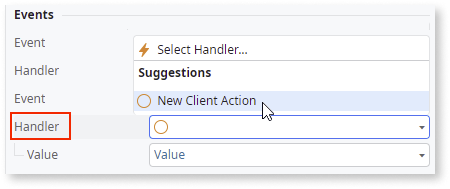
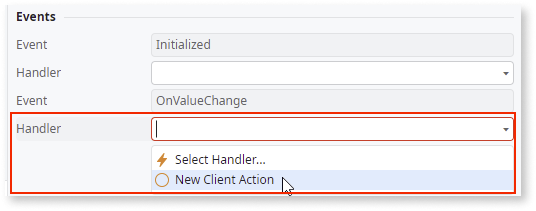
Updated Range Slider doc and Range Slider Ref doc

diff --git a/src/develop/ui/patterns/mobile/interaction/rangeslider.md b/src/develop/ui/patterns/mobile/interaction/rangeslider.md
@@ -23,7 +23,7 @@ In this example, we create a Range Slider that allows the user select the number
 
     The Range Slider widget is displayed.
 
-    ![](images/rangeslider-widget-ss.png)
+    ![Range Slider widget](images/rangeslider-widget-ss.png)
 
     If the UI widget does not display, it may be because you used a ready-made app, which deletes unused widgets from the module. To make additional widgets available in your app:
 
@@ -41,43 +41,39 @@ In this example, we create a Range Slider that allows the user select the number
 
     ![Drag the widget to the application screen](images/rangeslider-dragwidget-ss.png)
 
-1. On the **Properties** tab, enter the mandatory minimum, maximum, and starting values. In this example, we add static values.
+1. On the **Properties** tab, enter the mandatory minimum, maximum, and starting values. 
+    
+    In this example, we add static values.
 
-1. To create a new client action, from the **OnValueChange** drop-down, select **New Client Action**.
+    ![Add mandatory values](images/rangeslider-prop-vals-ss.png)
+
+1. To create an OnChange event, on the **Properties** tab, from the **Handler** drop-down, select **New Client Action**.
+
+    ![Create client action](images/rangeslider-clientaction-ss.png)
 
     By default, the **Value** input parameter is created.  
 
     ![Value input parameter is created automatically](images/rangeslider-value-input-ss.png)
 
-1. From the Toolbox, drag the Container widget into the Main Content area of your application's screen, and add your content to the Container placeholder. In this example we add some text and an expression.
+1. From the Toolbox, drag the **Container** widget into the Main Content area of your application's screen, and add your content to the Container placeholder.
 
-    ![](images/rangeslider-7-ss.png)
+    In this example we add some text and an expression.
 
-1. To create a variable for the expression, right-click your screen name, select **Add Local Variable**, and on the **Properties** tab, enter a name and data type (in this example, we use Decimal).
+    ![Add a container with content to the screen](images/rangeslider-container-ss.png)
 
-    ![](images/rangeslider-8-ss.png)
+1. To create a variable for the expression, right-click your screen name, select **Add Local Variable**, and on the **Properties** tab, enter a name and data type (in this example, we use **Decimal**).
+
+    ![Create a local cariable of type decimal](images/rangeslider-locvar-ss.png)
 
 1. To bind the new variable to the expression, double-click the expression widget, and in the **Expression Value** editor, select the variable you just have created, and click **Done**.
 
-    ![](images/rangeslider-9-ss.png)
+    ![](images/rangeslider-expression-ss.png)
 
-1. So that the **Value** parameter reads the range slider selection, double-click your client action, and from the Toolbox, add the **Assign** action to the client action.
+1. So that the **Value** parameter reads the range slider selection, double-click your client action, and from the Toolbox, add the **Assign** action to the client action. Set the Assign **Variable** to the local variable you created, and the Assign **Value** to the automatically generated input parameter (Value).
 
-    ![](images/rangeslider-10-ss.png)
-
-1. Set the Assign **Variable** to the local variable you created, and the Assign **Value** to the automatically generated input parameter (Value).
-
-    ![](images/rangeslider-11-ss.png)
-
-1. From the **Properties** tab, you can change the Range Slider's look and feel by setting the (optional) properties.
-
-    ![](images/rangeslider-14-ss.png)
+    ![](images/rangeslider-assign-ss.png)
 
 After following these steps and publishing the module, you can test the pattern in your app.
-
-**Result**
-
-![](images/rangeslider-12-ss.png)
 
 ## Properties
 
@@ -86,11 +82,12 @@ After following these steps and publishing the module, you can test the pattern 
 |MinValue (Decimal): Mandatory | Slider's minimum value. |
 |MaxValue (Decimal): Mandatory | Slider's maximum value. |
 |StartingValue (Decimal): Mandatory | Value selected by default when the page is rendered. Must be between min and max values. |
-|Size (Text): Optional | Sets the Range Slider size. If horizontal, the size is the width. Otherwise (vertical), the size is the height.  Accepts any kind of unit (px, %, vw). Default value is 100%.|
+|Orientation (Orientation Identifier): Optional|Sets the Range Slider direction. Default value is horizontal.|
+Size (Text): Optional | Sets the Range Slider size. If horizontal, the size is the width. Otherwise (vertical), the size is the height.  Accepts any kind of unit (px, %, vw). Default value is 100%.|
 | ExtendedClass (Text): Optional | Adds custom style classes to the Pattern. You define your [custom style classes](../../../../../develop/ui/look-feel/css.md) in your application using CSS. <p>Examples <ul><li>_Blank_ - No custom styles are added (default value).</li><li>"myclass" - Adds the myclass style to the UI styles being applied.</li><li>"myclass1 myclass2" - Adds the myclass1 and myclass2 styles to the UI styles being applied.</li></ul></p>You can also use the classes available on the OutSystems UI. For more information, see the [OutSystems UI Cheat Sheet](https://outsystemsui.outsystems.com/OutSystemsUIWebsite/CheatSheet). |
 |OptionalConfigs.ShowFloatingLabel (Boolean): Optional |Set to True to add a floating label above the handler. Default value is False. |
 |OptionalConfigs.Step (Decimal): Optional |  Slider moves in increments of steps. If the step is set to 10, the slider increases or decreases in units of 10, for example, 0 to 10, to 20, to 30, and so on. |
-|OptionalConfigs.ShowTickMarks (Boolean): Optional |  Set to True to display tick marks below the slider. Default value is False. |
-|OptionalConfigs.TickMarksInterval (Integer): Optional | Range interval after which a tick mark is displayed (when ShowTickMarks is set to True). For example, if TickMarksInterval = 5, a tick mark is shown for each 5 steps. |
+|OptionalConfigs.ShowTickMarks (Boolean): Optional |  Set to True to display tick marks below the slider. Default value is False. To generate the tick marks, you must set the TickMarksInterval to True.|
+|OptionalConfigs.TickMarksInterval (Integer): Optional | Range interval after which a tick mark is displayed (when ShowTickMarks is set to True). For example, if TickMarksInterval = 5, a tick mark is shown for each 5 steps. The value cannot be less than 0 (library restraint).|
 |OptionalConfigs.IsDisabled (Boolean): Optional | Set as True to disable the Range Slider. Default value is False. |
 

diff --git a/src/ref/ui-patterns/mobile/rangeslider.md b/src/ref/ui-patterns/mobile/rangeslider.md
@@ -9,7 +9,7 @@ summary: Advanced use cases for the Range Slider UI Pattern
 
 |**Event** | **Output** |  **Description**|
 |---|---|---| 
-|Initialized: Optional| RangeSliderId (Text)| Event triggered after the Ranger Slider is initialized. This event provides you with the element Id that can be used to call methods from the **RangeSliderAPI:OutSystems.OSUI.Patterns.RangeSlider** API. |
+|Initialized: Optional| RangeSliderId (Text)| Event triggered after the Ranger Slider is initialized. This event provides you with the element Id that can be used to call methods from the **RangeSliderAPI:OutSystems.OSUI.Patterns.RangeSliderAPI**. |
 |OnValueChange: Mandatory| Value (Decimal)| Event triggered after selecting a new value on the slider. By default, the event is triggered while the user is dragging the Range Slider handler. You can use the SetRangeSliderChangeOnDragEnd to trigger the event only after the user releases it. |
   
 ## Structure 
@@ -63,14 +63,16 @@ By using this action, the change events is only triggered when the user releases
 ### Change the decimal format on the tooltip when using the ShowFloatingLabel parameter as true
 
 1. Create a new action on the **Initialize** event.
-1. Drag a Javascript node to the **Initialize** event flow.
-1. On the Javascript node, create a new input parameter called **RangeSliderId**, of type text.
-1. Set the **RangeSliderId** parameter of the Javascript node to the **RangeSliderId** returned from the initialized event.
-On the Javascript node, paste the following code:
-``OutSystems.OSUI.Patterns.RangeSliderAPI.GetRangeSliderItemById($parameters.RangeSliderId).provider.updateOptions({tooltips: wNumb({decimals: CustomFormat })})``
+1. Drag a JavaScript node to the **Initialize** event flow.
+1. On the JavaScript node, create a new input parameter called **RangeSliderId**, of type text.
+1. Set the **RangeSliderId** parameter of the JavaScript node to the **RangeSliderId** returned from the initialized event.
+On the JavaScript node, paste the following code:
+
+    ``OutSystems.OSUI.Patterns.RangeSliderAPI.GetRangeSliderItemById($parameters.RangeSliderId).provider.updateOptions({tooltips: wNumb({decimals: CustomFormat })})``
+
     **Note:** For the **CustomFormat**, add the desired decimal numbers. In this example we changed it to 2.
 
-
+![Set the code on the JavaScript node](images/rangeslider-format-ss.png)
 
 
 
